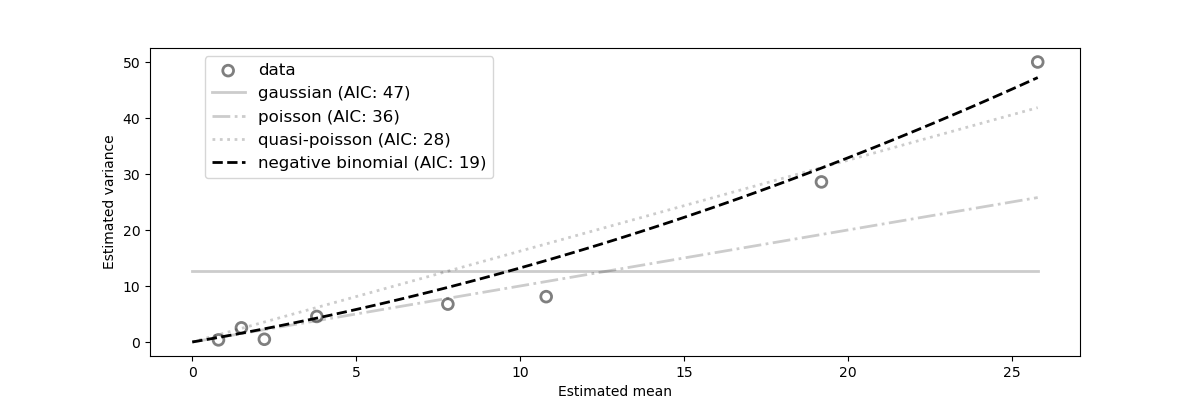
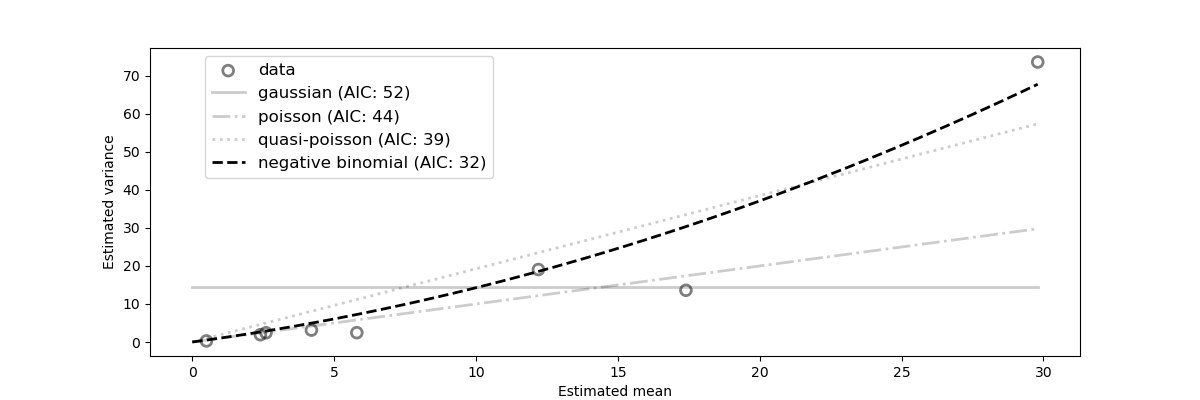
intermediate save

diff --git a/tutorials/quickstart/quickstart.py b/tutorials/quickstart/quickstart.py
@@ -100,7 +100,6 @@ if __name__ == '__main__':
     # Define dataset
     data=[d, ]
     states = ["I",]
-    weights = np.array([1,])
     log_likelihood_fnc = [ll_negative_binomial,]
     log_likelihood_fnc_args = [alpha,]
     # Calibated parameters and bounds
@@ -108,19 +107,19 @@ if __name__ == '__main__':
     labels = ['$\\beta$',]
     bounds = [(1e-6,1),]
     # Setup objective function (no priors --> uniform priors based on bounds)
-    objective_function = log_posterior_probability(model,pars,bounds,data,states,log_likelihood_fnc,log_likelihood_fnc_args,weights,labels=labels)
+    objective_function = log_posterior_probability(model, pars, bounds, data, states, log_likelihood_fnc, log_likelihood_fnc_args, labels=labels)
     # Extract start- and enddate
     start_date = d.index.min()
     end_date = d.index.max()
     # Initial guess
-    theta = np.array([0.50,])
+    theta = [0.50,]
     # Run Nelder-Mead optimisation
-    theta = nelder_mead.optimize(objective_function, theta, [0.10,], processes=1, max_iter=10)[0]
+    theta = nelder_mead.optimize(objective_function, theta, [0.10,], processes=1, max_iter=30)[0]
     # Simulate the model
     model.parameters.update({'beta': theta[0]})
     out = model.sim([start_date, end_date])
     # Visualize result
-    fig,ax=plt.subplots()
+    fig,ax=plt.subplots(figsize=(12,4))
     ax.plot(out['date'], out['I'], color='red', label='Infectious')
     ax.scatter(d.index, d.values, color='black', alpha=0.6, linestyle='None', facecolors='none', s=60, linewidth=2, label='data')
     ax.legend()
@@ -132,11 +131,11 @@ if __name__ == '__main__':
     ###########################
 
     # Variables
-    n_mcmc = 100
+    n_mcmc = 200
     multiplier_mcmc = 9
     processes = 9
-    print_n = 10
-    discard = 20
+    print_n = 50
+    discard = 50
     samples_path = 'sampler_output/'
     fig_path = 'sampler_output/'
     identifier = 'username'
@@ -150,13 +149,7 @@ if __name__ == '__main__':
     sampler = run_EnsembleSampler(pos, n_mcmc, identifier, objective_function, (), {},
                                     fig_path=fig_path, samples_path=samples_path, print_n=print_n, backend=None, processes=processes, progress=True,
                                     settings_dict=settings)
-    # Sample some more
-    backend = emcee.backends.HDFBackend(os.path.join(os.getcwd(),samples_path+'username_BACKEND_'+run_date+'.hdf5'))
-    sampler = run_EnsembleSampler(pos, n_mcmc, identifier, objective_function, (),{},
-                                    fig_path=fig_path, samples_path=samples_path, print_n=print_n, backend=backend, processes=processes, progress=True,
-                                    settings_dict=settings)
     # Generate a sample dictionary and save it as .json for long-term storage
-    # Have a look at the script `emcee_sampler_to_dictionary.py`, which does the same thing as the function below but can be used while your MCMC is running.
     samples_dict = emcee_sampler_to_dictionary(discard=discard, samples_path=samples_path, identifier=identifier)
     # Visualize the distribution of the basic reproduction number
     fig,ax=plt.subplots()

diff --git a/docs/quickstart.md b/docs/quickstart.md
@@ -169,51 +169,113 @@ In what follows we will set up and attempt to maximize the posterior probability
 
 $$ p (\theta | data) = \frac{p(data | \theta) p(\theta)}{p(data)}. $$
 
-Here, {math}`p(data)` is used for normalization and can be forgotten for all practical purposes. {math}`p(\theta)` is referred to as the prior probability of the model parameters and contains any prior beliefs about the probability density distribution of the parameters {math}`\theta`. Most of the times, uniform prior probabilities are used to constraint the parameter values to physical/likely regions of the parameter space. What is really important to remember is that the posterior probability {math}`p(\theta | data)` is proportional to the product of the likelihood {math}`p(data | \theta)` times the parameter prior probability {math}`p(\theta)`. Given that we'll actually maximize the logarithm of the posterior probability, the log posterior probability is computed as the sum of the logarithm of the prior probability and the logarithm of the likelihood. For an introduction to Bayesian inference, I recommend reading the following [article](https://towardsdatascience.com/a-gentle-introduction-to-bayesian-inference-6a7552e313cb).
+Here, {math}`p(data)` is used for normalization and can be forgotten for all practical purposes. {math}`p(\theta)` is referred to as the prior probability of the model parameters and contains any prior beliefs about the probability density distribution of the parameters {math}`\theta`. What is really important to remember is that the posterior probability {math}`p(\theta | data)` is proportional to the product of the likelihood {math}`p(data | \theta)` times the parameter prior probability {math}`p(\theta)`. Given that we'll actually maximize the logarithm of the posterior probability, the log posterior probability is computed as the sum of the logarithm of the prior probability and the logarithm of the likelihood. For an introduction to Bayesian inference, I recommend reading the following [article](https://towardsdatascience.com/a-gentle-introduction-to-bayesian-inference-6a7552e313cb).
 
 #### Choosing an appropriate prior function
 
-#### Choosing an appropriate likelihood function
-
-### Setting up the posterior probability in pySODM
+For every calibrated model parameter we will need to provide a probability function expressing our prior believes with regard to the probability distribution of that parameter. pySODM readily includes uniform, normal, triangular, gamma and weibull priors, which can be imported as follows (reside in `~/src/pySODM/optimization/objective_functions.py`),
 
 ```
-#########################
-## Calibrate the model ##
-#########################
+from pySODM.optimization.objective_functions import log_prior_uniform, log_prior_normal, log_prior_triangle, log_prior_gamma, log_prior_weibull, log_prior_custom
+```
 
+Typically, uniform prior probabilities, which simply constraint the parameter values, suffice. When initializing the `log_posterior probability` class (see further) it is not necessary to define priors for your parameters. If no priors are defined, by default, pySODM will initialize uniform priors for the calibrated parameters.
+
+#### Choosing an appropriate likelihood function
+
+The next step is to choose an appropriate log likelihood function {math}` ln [ p(data | \theta) ]`. The log likelihood function is a function that describes the magnitude of the error when model prediction and data deviate. The bread and butter of a log likelihood function is the sum of squared errors (SSE),
+```{math}
+SSE = \sum_i (y_{data,i} - y_{model,i})^2,
+```
+this is actually a simplified case of the following Guassian log likelihood function,
+```{math}
+ln \big[ p(y_{data} | y_{model}, \sigma) \big] = - \frac{1}{2} \sum_i \Bigg[ \frac{(y_{data,i} - y_{model,i})^2}{\sigma_i^2} + ln (2 \pi \sigma_i^2) \Bigg].
+```
+and the SSEs's use is only appropriate when the error on all datapoints are the same {math}`\sigma_i^2 = 1`. If the errors ({math}`\sigma_i`) of all datapoints ({math}`y_{data,i}`) are known, then the Gaussian log likelihood function is the most appropriate objective function. When the error of the datapoints are unknown, we must analyze the mean-variance relationship in our dataset to choose the appropriate likelihood function. For epidemiological case data, dispersion tends to grow with the magnitude of the data and only one datapoint is available per day (so no error is readily available). In that case, pySODM's `variance_analysis` function includes the necessary tools to approximate the mean-variance relationship in a given dataset. By dividing the dataset in discrete windows and comparing an exponential moving average to the data, mean-variance couples can be appraximated. Then, the appropriate likelihood function can be found by fitting the following candidate models,
+
+| Mean-Variance model          | Relationship                               |
+|------------------------------|--------------------------------------------|
+| Gaussian                     | {math}`\sigma^2 = c`                       |
+| Poisson                      | {math}`\sigma^2 = \mu`                     |
+| Quasi-Poison                 | {math}`\sigma^2 = \alpha * \mu`            |
+| Negative Binomial            | {math}`\sigma^2 = \mu + \alpha * \mu^2`    |
+
+The following snippet performs the above procedure on our synthetic dataset. The negative binomial model with dispersion coefficient {math}`\alpha = 0.04` is chosen as the most appropriate statistical model. This result is quite good considering how the data were generated from a negative binomial model with a dispersion coefficient {math}`\alpha = 0.03`.
+
+```
+from pySODM.optimization.utils import variance_analysis
+
+results, ax = variance_analysis(d, resample_frequency='W')
+alpha = results.loc['negative binomial', 'theta']
+print(results)
+plt.show()
+plt.close()
+```
+
+![variance_analysis](/_static/figs/quickstart_variance_analysis.png)
+
+```bash
+                       theta        AIC
+gaussian           14.568640  52.300657
+poisson             0.000000  44.165044
+quasi-poisson       1.925682  38.796586
+negative binomial   0.042804  32.045864
+```
+
+#### Setting up the posterior probability in pySODM
+
+Let's initialize an appropriate posterior probability function for the problem at hand. We start by importing the `log_posterior_probability` class and the our negative binomial likelihood function `ll_negative_binomial`. The following arguments of `log_posterior_probability` are mandatory,
+1. `model`: The previously initialized model.
+2. `pars`: A list containing the names of the model parameters we wish to optimize.
+3. `bounds`: A list containing, for every parameter we wish to optimize, a tuple with a lower and an upper bound.
+4. `data`: A list containing the datasets we wish to calibrate our model to. Datasets must always be `pd.Series` or `pd.DataFrame`.
+5. `states`: A list containing, for every dataset, the model state that must be matched with it.
+6. `log_likelihood_function`: A list containing, for every dataset, the log likelihood function used to describe deviations between the model prediction and the respective dataset.
+7. `log_likelihood_function_args`: A list containing the arguments of every log likelihood function.
+
+The lengths of the number of `data`, `states`, `log_likelihood function` and `log_likelihood_function_args` must always be equal. In the example, as no prior functions are provided, the priors will default to uniform priors over the provided bounds. Providing a label is also optional, if no label is provided, the names provided in `pars` are used as labels.
+
+```
 if __name__ == '__main__':
+    
+    # Import the log_posterior_probability class
+    from pySODM.optimization.objective_functions import log_posterior_probability
 
-    # The datasets, the model states to match, their weights, the log likelihood functions and log likelihood function arguments
+    # Import the negative binomial likelihood function
+    from pySODM.optimization.objective_functions import ll_negative_binomial
+
+    # The datasets, the model states to match to the datasets,
+    # the log likelihood functions and log likelihood function arguments
     data=[d, ]
     states = ["I",]
-    weights = np.array([1,])
     log_likelihood_fnc = [ll_negative_binomial,]
     log_likelihood_fnc_args = [alpha,]
 
     # Calibated parameters, their bounds and preferred labels
     pars = ['beta',]
-    labels = ['$\\beta$',]
     bounds = [(1e-6,1),]
-
+    labels = ['$\\beta$',]
+    
     # Setup objective function (no priors --> uniform priors based on bounds)
-    objective_function = log_posterior_probability(model, pars, bounds, data, states,log_likelihood_fnc,
-                                                   log_likelihood_fnc_args, weights, labels=labels)
+    objective_function = log_posterior_probability(model, pars, bounds, data, states, 
+                                                   log_likelihood_fnc, log_likelihood_fnc_args,
+                                                   labels=labels)
 ```
 
 #### Nelder-Mead optimization
 
+The following code snippet starts a Nelder-Mead optimization from the initial guess {math}`\beta = 0.35`, perturbated with a `step` of 10%. Running on `processes=1` core for `max_iter=10` iterations.
+
 ```
 if __name__ == '__main__':
-
-    # Extract start- and enddate of dataset
-    start_date = d.index.min()
-    end_date = d.index.max()
+    # Import the Nelder-Mead algorithm
+    from pySODM.optimization import nelder_mead
     # Initial guess
-    theta = np.array([0.50,])
+    theta = [0.35,]
     # Run Nelder-Mead optimisation
-    theta = nelder_mead.optimize(objective_function, theta, [0.10,], processes=1, max_iter=10)[0]
+    theta = nelder_mead.optimize(objective_function, theta, step=[0.10,], processes=1, max_iter=10)[0]
 ```
+We find an optimal value of {math}`\beta \pm 0.27`. We can then asses the goodness-of-fit by updating the dictionary of model parameters with the newly found value for `beta`, simulating the model and visualizing the model prediction and dataset.
 
 ```
 if __name__ == '__main__':
@@ -230,10 +292,73 @@ if __name__ == '__main__':
     plt.close()
 ```
 
+![nelder_mead](/_static/figs/quickstart_nelder_mead_fit.png)
+
 #### Bayesian optimization
+
+We can now use the obtained guess for `beta` as the starting point for a Markov-Chain Monte-Carlo algorithm. In this way, we can infer information regarding the distribution of `beta`.
+
+```
+if __name__ == '__main__':
+
+    from pySODM.optimization.mcmc import perturbate_theta, run_EnsembleSampler, emcee_sampler_to_dictionary
+
+    # Settings
+    n_mcmc = 100
+    multiplier_mcmc = 9
+    processes = 9
+    print_n = 10
+    discard = 20
+    samples_path = 'sampler_output/'
+    fig_path = 'sampler_output/'
+    identifier = 'username'
+    run_date = str(datetime.date.today())
+    # Perturbate previously obtained estimate
+    ndim, nwalkers, pos = perturbate_theta(theta, pert=0.10*np.ones(len(theta)), multiplier=multiplier_mcmc, bounds=bounds)
+    # Usefull settings to retain in the samples dictionary (no pd.Timestamps or np.arrays allowed!)
+    settings={'start_calibration': start_date.strftime("%Y-%m-%d"), 'end_calibration': end_date.strftime("%Y-%m-%d"),
+              'n_chains': nwalkers, 'starting_estimate': list(theta)}
+    # Run the sampler
+    sampler = run_EnsembleSampler(pos, n_mcmc, identifier, objective_function, (), {},
+                                  fig_path=fig_path, samples_path=samples_path, print_n=print_n, backend=None, processes=processes, progress=True,
+                                  settings_dict=settings)
+    # Generate a sample dictionary and save it as .json for long-term storage
+    samples_dict = emcee_sampler_to_dictionary(discard=discard, samples_path=samples_path, identifier=identifier)
+```
 
 #### Visualizing the result
 
+The basic reproduction number.
 
+```
+# Visualize the distribution of the basic reproduction number
+fig,ax=plt.subplots()
+ax.hist(np.array(samples_dict['beta'])*model.parameters['gamma'], density=True, color='black', alpha=0.6)
+ax.set_xlabel('$R_0$')
+plt.show()
+plt.close()
+```
+
+Talk about draw functions
+
+```
+# Define draw function
+def draw_fcn(param_dict, samples_dict):
+    param_dict['beta'] = np.random.choice(np.array(samples_dict['beta']))
+    return param_dict
+# Simulate model
+out = model.sim([start_date, end_date+pd.Timedelta(days=28)], N=30, samples=samples_dict, draw_fcn=draw_fcn, processes=processes)
+# Add negative binomial observation noise
+out = add_negative_binomial_noise(out, dispersion)
+# Visualize result
+fig,ax=plt.subplots(figsize=(12,3))
+for i in range(30):
+    ax.plot(out['date'], out['I'].isel(draws=i), color='red', alpha=0.05)
+ax.plot(out['date'], out['I'].mean(dim='draws'), color='red', alpha=0.6)
+ax.scatter(d.index, d.values, color='black', alpha=0.6, linestyle='None', facecolors='none', s=60, linewidth=2)
+ax.xaxis.set_major_locator(plt.MaxNLocator(3))
+plt.show()
+plt.close()
+```
 
 ### Simulating scenarios
